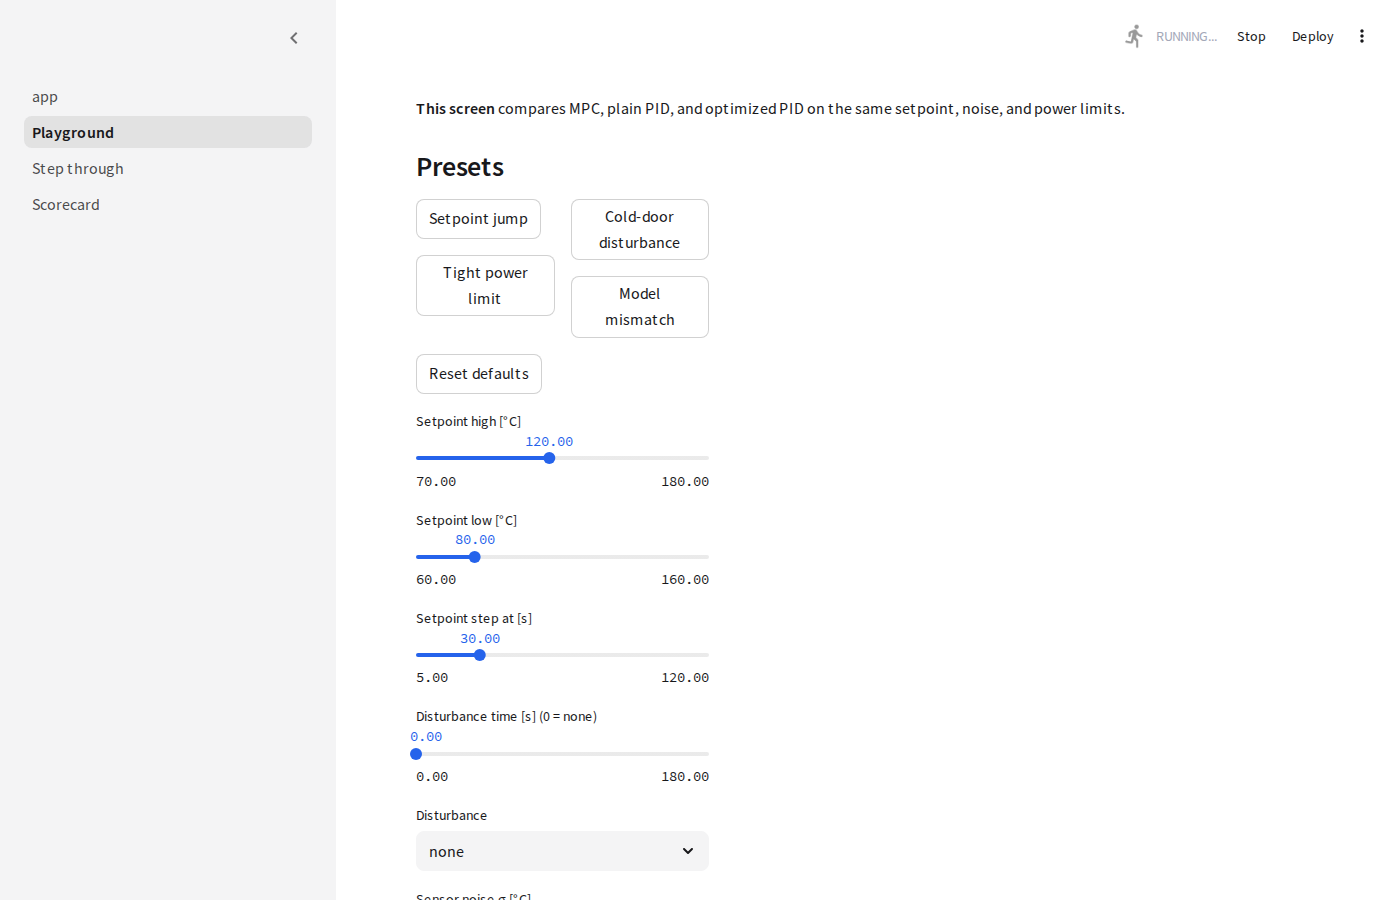
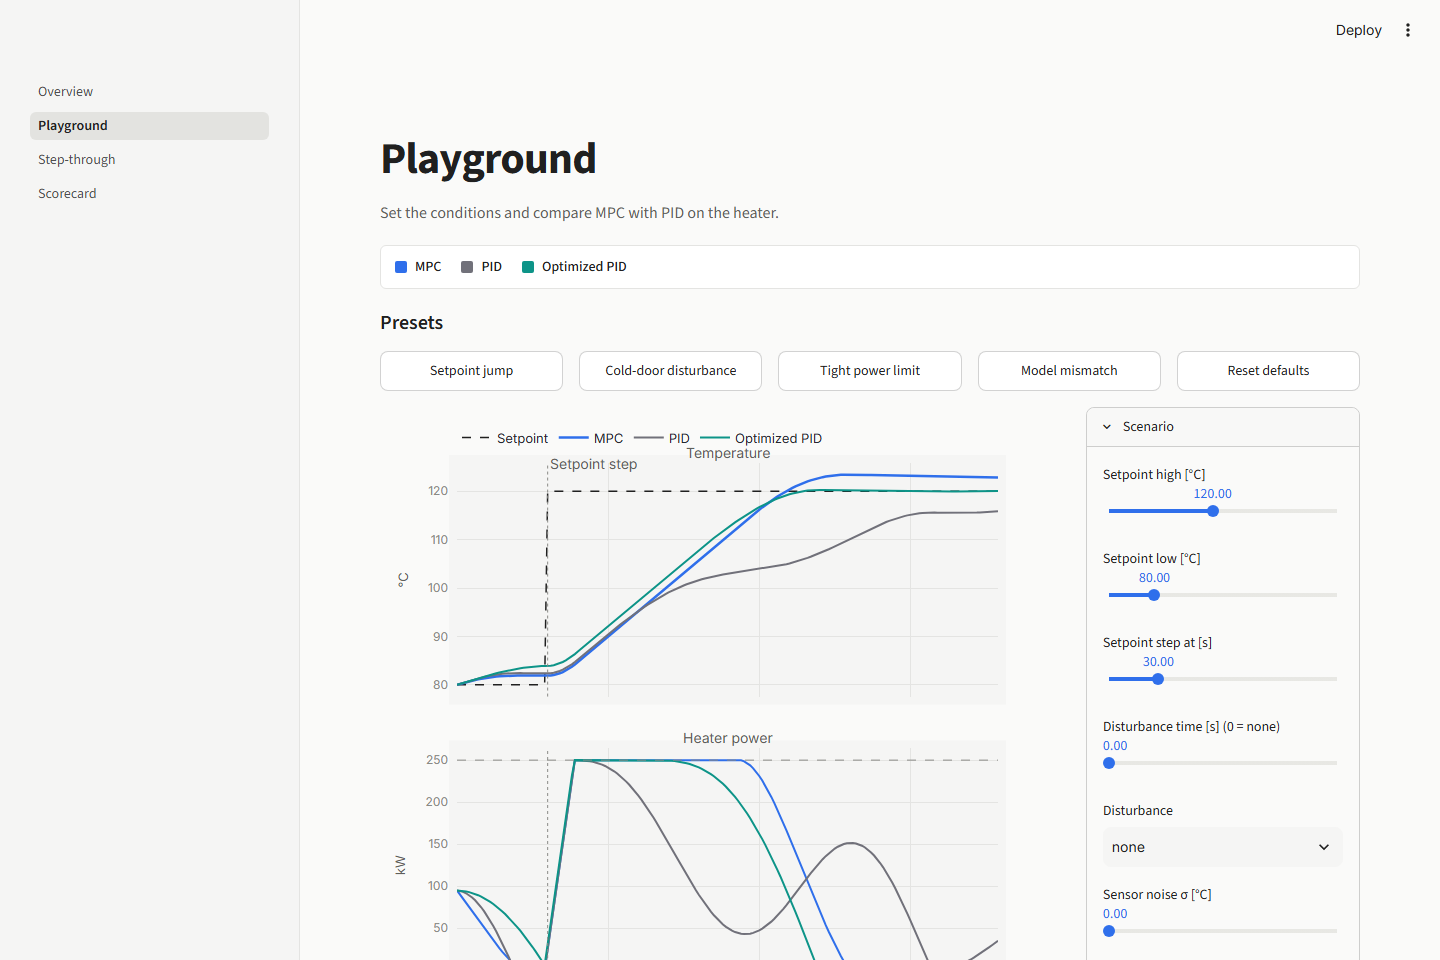
fix(ui): scorecard legend overlap and refresh README screenshots

diff --git a/scripts/capture_streamlit_screenshots.py b/scripts/capture_streamlit_screenshots.py
@@ -1,4 +1,8 @@
-"""Capture Streamlit multipage UI screenshots for README and video."""
+"""Capture Streamlit multipage UI screenshots for README.
+
+Requires a running app: streamlit run app.py
+Regen: python scripts/capture_streamlit_screenshots.py
+"""
 
 from __future__ import annotations
 
@@ -8,27 +12,25 @@ from playwright.sync_api import sync_playwright
 
 ROOT = Path(__file__).resolve().parents[1]
 DOCS = ROOT / "docs"
-VIDEO_ASSETS = ROOT / "video" / "assets"
 BASE = "http://127.0.0.1:8501"
 
 
 def main() -> None:
     DOCS.mkdir(parents=True, exist_ok=True)
-    VIDEO_ASSETS.mkdir(parents=True, exist_ok=True)
     shots = [
-        ("Playground", DOCS / "streamlit-playground.png", VIDEO_ASSETS / "ui-playground.png"),
-        ("Step_through", DOCS / "streamlit-step-through.png", None),
-        ("Scorecard", DOCS / "streamlit-scorecard.png", VIDEO_ASSETS / "ui-scorecard.png"),
+        ("", DOCS / "streamlit-overview.png"),
+        ("playground", DOCS / "streamlit-playground.png"),
+        ("step_through", DOCS / "streamlit-step-through.png"),
+        ("scorecard", DOCS / "streamlit-scorecard.png"),
     ]
     with sync_playwright() as p:
         browser = p.chromium.launch(headless=True)
-        page = browser.new_page(viewport={"width": 1400, "height": 900})
-        for page_name, doc_path, video_path in shots:
-            page.goto(f"{BASE}/{page_name}", wait_until="networkidle")
-            page.wait_for_timeout(6000 if page_name == "Playground" else 3500)
+        page = browser.new_page(viewport={"width": 1440, "height": 960})
+        for path, doc_path in shots:
+            url = f"{BASE}/{path}" if path else BASE
+            page.goto(url, wait_until="networkidle", timeout=120_000)
+            page.wait_for_timeout(2500)
             page.screenshot(path=str(doc_path), full_page=True)
-            if video_path:
-                page.screenshot(path=str(video_path), full_page=True)
             print(f"Wrote {doc_path}")
         browser.close()
 

diff --git a/src/mpc_core/sim/plotly_charts.py b/src/mpc_core/sim/plotly_charts.py
@@ -33,11 +33,11 @@ def _base_layout(**kwargs) -> dict:
         legend=dict(
             orientation="h",
             yanchor="bottom",
-            y=1.02,
+            y=1.12,
             x=0,
             font=dict(size=13),
         ),
-        margin=dict(l=48, r=24, t=56, b=48),
+        margin=dict(l=48, r=24, t=72, b=48),
         hovermode="x unified",
     )
     layout.update(kwargs)
@@ -332,14 +332,17 @@ def grouped_metrics_figure(
                 cliponaxis=False,
             )
         )
-    fig.update_layout(
-        **_base_layout(
-            title=dict(text=title, font=dict(size=16, color=TEXT_PRIMARY)),
-            barmode="group",
-            height=380,
-            margin=dict(l=40, r=20, t=60, b=40),
-            legend=dict(orientation="h", yanchor="bottom", y=1.08, x=0),
-        )
+    layout_kwargs: dict = dict(
+        barmode="group",
+        height=400,
+        margin=dict(l=40, r=20, t=36, b=72),
+        legend=dict(orientation="h", yanchor="top", y=-0.18, x=0, xanchor="left"),
     )
+    if title:
+        layout_kwargs["title"] = dict(
+            text=title, font=dict(size=16, color=TEXT_PRIMARY), y=0.98
+        )
+        layout_kwargs["margin"] = dict(l=40, r=20, t=56, b=72)
+    fig.update_layout(**_base_layout(**layout_kwargs))
     _style_axes(fig)
     return fig

diff --git a/ui_pages/step_through.py b/ui_pages/step_through.py
@@ -9,11 +9,10 @@ from mpc_core.sim.copy_text import STEP_LEDE, STEP_TITLE
 from mpc_core.sim.plotly_charts import mpc_horizon_figure
 from mpc_core.sim.scenarios import SCENARIOS
 from mpc_core.sim.simulate import run_mpc_step_log
-from mpc_core.sim.ui import inject_styles, page_header, sidebar_brand
+from mpc_core.sim.ui import inject_styles, page_header
 from mpc_core.sim.ui_cache import DEFAULT_STEP_HORIZON, load_step_log
 
 inject_styles()
-sidebar_brand()
 
 page_header(title=STEP_TITLE, look_for=STEP_LEDE)
 
@@ -78,10 +77,12 @@ with nav3:
         st.rerun()
 
 m1, m2, m3, m4 = st.columns(4)
+m1, m2, m3, m4, m5 = st.columns(5)
 m1.metric("Applied power", f"{snap.u_applied:.2f} kW")
 m2.metric("Disturbance d̂", f"{snap.d_hat:.3f}")
-m3.metric("Measured / setpoint", f"{snap.y_meas:.1f} / {snap.y_ref:.1f} °C")
-m4.metric("Solve time", f"{snap.solve_ms:.2f} ms")
+m3.metric("Measured", f"{snap.y_meas:.1f} °C")
+m4.metric("Setpoint", f"{snap.y_ref:.1f} °C")
+m5.metric("Solve time", f"{snap.solve_ms:.2f} ms")
 
 st.plotly_chart(mpc_horizon_figure(snap), use_container_width=True)
 st.caption(snap.caption)

diff --git a/ui_pages/scorecard.py b/ui_pages/scorecard.py
@@ -11,11 +11,10 @@ from mpc_core.sim.copy_text import (
     SCORECARD_TITLE,
 )
 from mpc_core.sim.plotly_charts import grouped_metrics_figure, metrics_bar_chart
-from mpc_core.sim.ui import inject_styles, page_header, sidebar_brand
+from mpc_core.sim.ui import inject_styles, page_header
 from mpc_core.sim.ui_cache import load_scorecard_rows
 
 inject_styles()
-sidebar_brand()
 
 page_header(title=SCORECARD_TITLE, look_for=SCORECARD_LEDE)
 
@@ -41,6 +40,7 @@ scenario_pick = st.selectbox("Scenario", df["Scenario"].unique())
 subset = df[df["Scenario"] == scenario_pick].copy()
 controllers = subset["Controller"].tolist()
 
+st.markdown(f"##### {scenario_pick}")
 fig = grouped_metrics_figure(
     controllers,
     {
@@ -48,7 +48,7 @@ fig = grouped_metrics_figure(
         "Settling [s]": subset["Settling [s]"].fillna(0).tolist(),
         "Violations": subset["Violations"].fillna(0).tolist(),
     },
-    title=scenario_pick,
+    title="",
 )
 st.plotly_chart(fig, use_container_width=True)
 

diff --git a/ui_pages/playground.py b/ui_pages/playground.py
@@ -27,13 +27,11 @@ from mpc_core.sim.ui import (
     inject_styles,
     insight_strip,
     page_header,
-    sidebar_brand,
     violation_tone,
 )
 from mpc_core.sim.ui_cache import load_playground_triple
 
 inject_styles()
-sidebar_brand()
 
 if "playground_params" not in st.session_state:
     st.session_state.playground_params = PlaygroundParams()

diff --git a/ui_pages/overview.py b/ui_pages/overview.py
@@ -12,10 +12,9 @@ from mpc_core.sim.copy_text import (
     OVERVIEW_PAGES,
     OVERVIEW_TITLE,
 )
-from mpc_core.sim.ui import inject_styles, page_header, sidebar_brand
+from mpc_core.sim.ui import inject_styles, page_header
 
 inject_styles()
-sidebar_brand()
 
 page_header(title=OVERVIEW_TITLE, look_for=OVERVIEW_LEDE)
 

diff --git a/README.md b/README.md
@@ -18,9 +18,7 @@
   <a href="report/report.md"><b>Report</b></a>
 </p>
 
-Three scripted scenarios, a **multipage Streamlit lab**, batch plots under `results/`, and an **82 s showcase video** (HyperFrames) driven by the same simulation JSON as the app.
-
-> Coursework simulation you can run today — not a field PLC program.
+Three scripted scenarios, a **multipage Streamlit lab** (precomputed UI data for fast opens), batch plots under `results/`, and an **82 s showcase video** (HyperFrames) driven by the same simulation JSON as the app.
 
 ## Quick start
 
@@ -30,24 +28,29 @@ pip install -r requirements.txt
 pip install -e ".[dev]"
 python3 -m pytest -q
 python3 examples/run_simulations.py
+python3 scripts/precompute_ui_data.py
 streamlit run app.py
 ```
 
 ## Interactive app
 
-**Playground** — compare MPC, PID, and optimized PID on one chart; presets, cached runs, MPC solve time.
+**Overview** — MPC vs PID on the same heater model, with a block diagram of the predictive loop.
 
-<img src="docs/streamlit-playground.png" width="900" alt="Streamlit Playground: temperature and heater power traces for MPC, PID, and optimized PID">
+<img src="docs/streamlit-overview.png" width="900" alt="Streamlit Overview: MPC Heater Lab landing page with MPC block diagram">
 
-**Step-through** — walk the receding horizon one MPC step at a time.
+**Playground** — compare MPC, PID, and optimised PID on one chart; presets load from disk.
 
-<img src="docs/streamlit-step-through.png" width="900" alt="Streamlit Step-through: MPC predicted temperature fan over the horizon">
+<img src="docs/streamlit-playground.png" width="900" alt="Streamlit Playground: temperature and heater power traces for MPC, PID, and optimised PID">
 
-**Scorecard** — same scenarios as batch runs; violations, settling, IAE (including model mismatch).
+**Step-through** — walk one MPC horizon at a time.
+
+<img src="docs/streamlit-step-through.png" width="900" alt="Streamlit Step-through: MPC predicted temperature over the horizon">
+
+**Scorecard** — same scenarios as the batch runs; violations, settling, IAE (including model mismatch).
 
 <img src="docs/streamlit-scorecard.png" width="900" alt="Streamlit Scorecard: metrics table and bar charts">
 
-Theme: `.streamlit/config.toml` (projector-friendly accent `#2563eb`).
+Theme: `.streamlit/config.toml` (cobalt accent `#2F6FEB`).
 
 ## Showcase video
 
